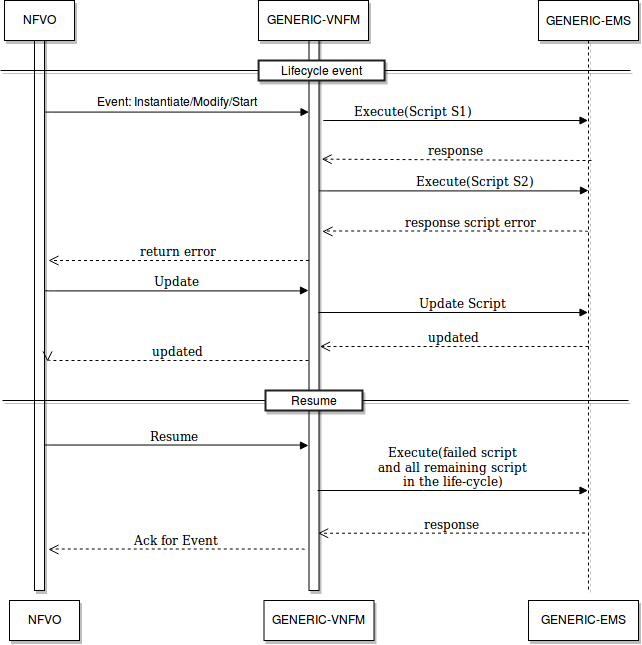
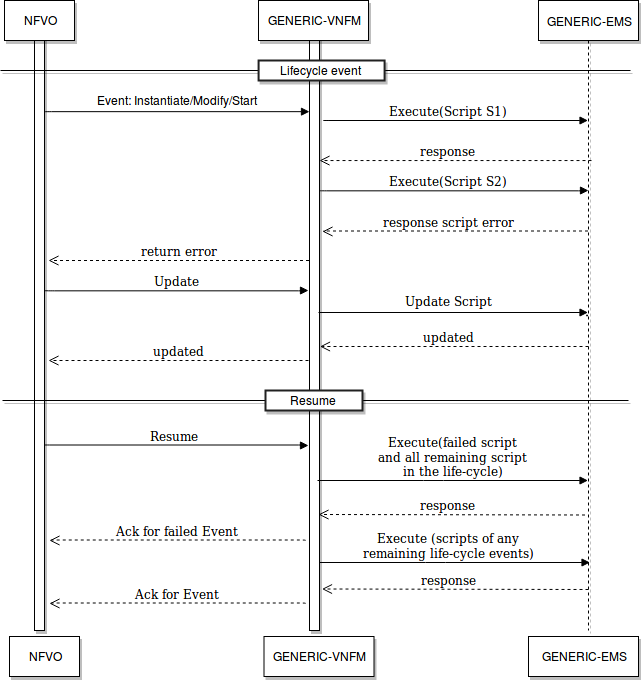
Updated image and text

diff --git a/docs/vnfm-generic.md b/docs/vnfm-generic.md
@@ -122,7 +122,7 @@ As for VM's deployment, VM's termination is done by the NFVO. Specific scripts c
 
 #### Resume Virtual Network Functions
 
-As discussed above, the EMS executes scripts in the VNFC for each lifecycle event. However, if a script is erroneous, the lifecycle execution of the VNF fails. Instead of re-deploying the VNF, you can update the erroneous script in the vnfpackage and resume the failed VNF. Once updated, the Generic VNFM can resume execution from the failed script and continue to the remaining lifecycle events. The following sequence diagram explains the process:
+As discussed above, the EMS executes scripts in the VNFC for each lifecycle event. However, if a script is erroneous, the lifecycle execution of the VNF fails. Instead of re-deploying the VNF, you can update the erroneous script in the vnfpackage (through the dashboard) and resume the failed VNF. Once updated, the Generic VNFM can resume execution from the failed script and continue to any remaining lifecycle event. The following sequence diagram explains the process:
 ![Sequence Diagram Generic - Resume][generic-resume-seq-dg]
 
 <!---
